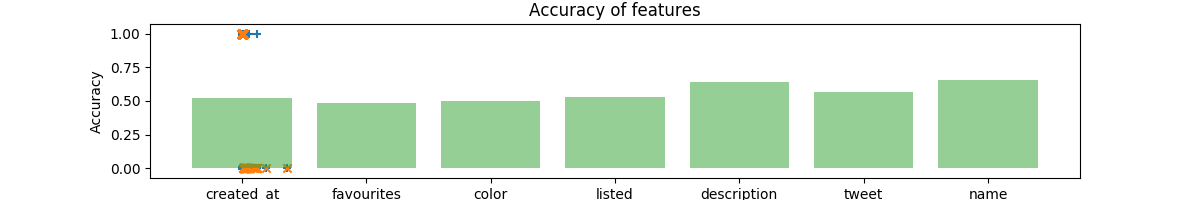
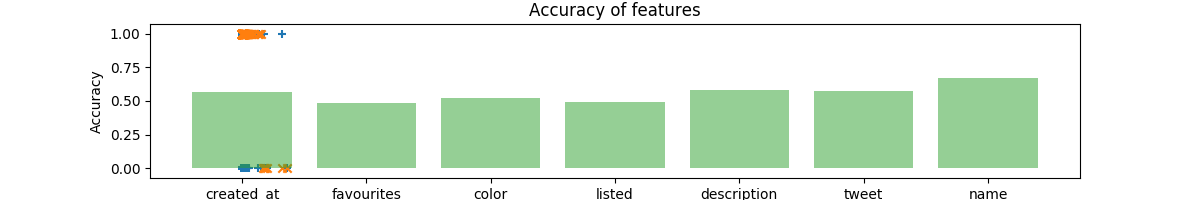
up to date

diff --git a/SVM.py b/SVM.py
@@ -23,6 +23,10 @@ def main():
         created_at = [d["created_at"] for d in data]
         favourites_count = [d["favourites_count"] for d in data]
         profile_background_color = [d["profile_background_color"] for d in data]
+        profile_link_color = [d["profile_link_color"] for d in data]
+        profile_sidebar_fill_color = [d["profile_sidebar_fill_color"] for d in data]
+        profile_text_color = [d["profile_text_color"] for d in data]
+        profile_sidebar_border_color = [d["profile_sidebar_border_color"] for d in data]
         listed_count = [d["listed_count"] for d in data]
         description = [d["description"] for d in data]
         tweet = [d["tweet"] for d in data]
@@ -34,7 +38,9 @@ def main():
         # create models, plot and then get accuracy of models
         created_at_acc = created_at_model(created_at, gender)
         favourites_acc = favourites_count_model(favourites_count, gender)
-        color_acc = color_model(profile_background_color, gender)
+        color_acc = color_model(profile_background_color, profile_sidebar_fill_color,
+                                profile_text_color, profile_sidebar_border_color,
+                                profile_link_color, gender)
         listed_acc = listed_count_model(listed_count, gender)   
         description_acc = description_model(description, gender)
         tweet_acc = tweet_model(tweet, gender)
@@ -48,12 +54,6 @@ def main():
 def normaliseData(x):
     scale=x.max(axis=0)
     return (x/scale, scale)
-
-def scikit_test():
-    X = [[0, 0], [1, 1]]
-    y = [0, 1]
-    clf = svm.SVC(gamma='scale')
-    clf.fit(X, y)
 
 def plotAccuracy(created_at_acc, favourites_acc,
                  color_acc, listed_acc, description_acc,
@@ -73,8 +73,8 @@ def plotAccuracy(created_at_acc, favourites_acc,
     plt.xticks(y_pos, X_axis)
     plt.ylabel('Accuracy')
     plt.title('Accuracy of features')
-    graph = 'plots/' + graph_name + '.png'  
-    fig.savefig(graph)
+    graph = 'plots/' + graph_name + '.png'
+
 
 
 def plotFeatureData(X, actY, predY, graph_name):
@@ -118,20 +118,25 @@ def created_at_model(created_at, y):
     plotFeatureData(Xtest, ytest, predY, 'Created_At')
     return getAccuracy(ytest, predY)
 
-def color_model(profile_background_color, y):
+def color_model(profile_background_color, profile_sidebar_fill_color,
+                profile_text_color, profile_sidebar_border_color,
+                profile_link_color, y):
                 
-    (X, _) = normaliseData(np.array([int(x, 16) for x in profile_background_color]).reshape(-1,1))
-
+    (X1, _) = normaliseData(np.array([int(x, 16) for x in profile_background_color]).reshape(-1,1))
+    (X2, _) = normaliseData( np.array([int(x, 16) for x in profile_sidebar_fill_color]).reshape(-1,1))
+    (X3, _) = normaliseData(np.array([int(x, 16) for x in profile_text_color]).reshape(-1,1))
+    (X4, _) = normaliseData(np.array([int(x, 16) for x in profile_sidebar_border_color]).reshape(-1,1))
+    (X5, _)= normaliseData(np.array([int(x, 16) for x in profile_link_color]).reshape(-1,1))
+    X=np.column_stack((X1, X2, X3, X4, X5))
     # create Model
-    #(X, _) = normaliseData(np.array(newList).reshape(-1,1))
-    Xtrain, Xtest, ytrain, ytest = train_test_split(X, y, test_size=0.1)
+    Xtrain, Xtest, ytrain, ytest = train_test_split(X, y, test_size=0.99)
 
     clf = svm.SVC(kernel='linear', C = 1.0)
 
     clf.fit(Xtrain, ytrain)
 
     # make predicitions
-    predY = clf.predict(Xtest.reshape(-1, 1))
+    predY = clf.predict(Xtest)
     #plot data, get and return accuracy of model
 
     plotFeatureData(Xtest, ytest, predY, 'Color')
@@ -139,7 +144,7 @@ def color_model(profile_background_color, y):
 
 def favourites_count_model(favourites_count, y):
     # create Model
-    (X, Xscale) = normaliseData(np.array(favourites_count).reshape(-1,1))
+    (X, _) = normaliseData(np.array(favourites_count).reshape(-1,1))
 
     Xtrain, Xtest, ytrain, ytest = train_test_split(X, y, test_size=0.1)
 
@@ -154,7 +159,7 @@ def favourites_count_model(favourites_count, y):
 
 def listed_count_model(listed_count, y):
     # create Model
-    (X, Xscale) = normaliseData(np.array(listed_count).reshape(-1,1))
+    (X, _) = normaliseData(np.array(listed_count).reshape(-1,1))
 
     Xtrain, Xtest, ytrain, ytest = train_test_split(X, y, test_size=0.1)
 
@@ -210,6 +215,7 @@ def textClassification(X, y):
     return Xtest, ytest, predY
 
 #def combinedFeatures():
+
 
 if __name__ == '__main__':
     main()
